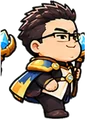
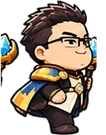
Match 추진팀장 and 개발팀장 in-game size to 사업팀장
- 추진팀장: idle canvas sized so the running sprite shows at ~78px
- 개발팀장: scale action frames (run/attack/hit/victory/down) by 1.14

Claude-Session: https://claude.ai/code/session_01MvzzvQc6xr2KAW6vgqiYJS

diff --git a/tools/build_sprites.py b/tools/build_sprites.py
@@ -313,22 +313,24 @@ for team, (fname, needs_bg, B) in CAPTAINS.items():
     fx_sheet = sheet if fx_sheet is None else fx_sheet
     for i, b in enumerate(B['idle']):
         save(f'cap_{team}_idle_{i}', largest(crop(sheet, *b)), scale=CAP_SCALE, center=True)
+    # 개발팀장 시트는 대기 그림에 비해 동작 그림이 작게 그려져 있어, 게임에서 사업팀장과 같은 크기로 보이도록 동작 프레임만 키움
+    fs = CAP_SCALE * (1.14 if team == 'dev' else 1)
     for i, b in enumerate(B['run']):
-        save(f'cap_{team}_run_{i}', largest(crop(sheet, *b)), scale=CAP_SCALE, center=True)
+        save(f'cap_{team}_run_{i}', largest(crop(sheet, *b)), scale=fs, center=True)
     for i, b in enumerate(B['atk']):
-        save(f'cap_{team}_atk_{i}', largest(crop(sheet, *b)), scale=CAP_SCALE, center=True)
+        save(f'cap_{team}_atk_{i}', largest(crop(sheet, *b)), scale=fs, center=True)
     for k in ('hit', 'victory'):
-        save(f'cap_{team}_{k}', largest(crop(sheet, *B[k])), scale=CAP_SCALE, center=True)
-    save(f'cap_{team}_down', largest(crop(sheet, *B['down'])), scale=CAP_SCALE)
+        save(f'cap_{team}_{k}', largest(crop(sheet, *B[k])), scale=fs, center=True)
+    save(f'cap_{team}_down', largest(crop(sheet, *B['down'])), scale=fs)
     save(f'cap_{team}_revive', largest(crop(sheet, *B['revive']), keep_all=True, dil=8), scale=CAP_SCALE)
     save(f'cap_{team}_icon', largest(crop(sheet, *B['icon'])), height=96)
     save(f'cap_{team}_emblem', largest(crop(sheet, *B['emblem']), dil=8), height=72)
     save(f'fx_cap_{team}_bolt', largest(crop(fx_sheet, *B['bolt']), dil=8), height=60)
     if team == 'push':
         # 추진팀장 기본 서 있는 모습: 단독 일러스트(추진팀장2.png)를 시트 대기 프레임과 같은 키로 맞춤
-        # 게임은 대기 그림 높이로 전체 배율을 정하므로, 달리기 모습이 개발(약 68px)·사업(약 78px)팀장의 중간인 73px로 보이게 대기 높이를 정함
+        # 게임은 대기 그림 높이로 전체 배율을 정하므로, 달리기 모습이 사업팀장과 같은 약 78px로 보이게 대기 높이를 정함
         run_h = largest(crop(sheet, *B['run'][0])).height * CAP_SCALE
-        idle_h = round(run_h * 82 / 73)
+        idle_h = round(run_h * 82 / 78)
         save('cap_push_idle_0', largest(load('추진팀장2.png')), height=idle_h, center=True)
 
 # 게임 코드용 목록 갱신
